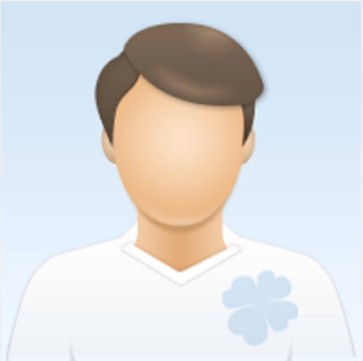
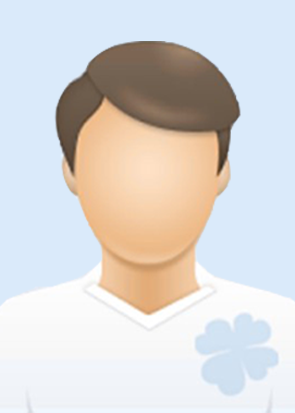
证件照片尺寸

Changed region(s): [[0.1831, 0.0609, 0.8237, 0.7618], [0.6102, 0.7313, 0.9458, 0.9751]]

diff --git a/src/components/stencil/zhcx.vue b/src/components/stencil/zhcx.vue
@@ -10,7 +10,7 @@
                 <el-input v-model="sums.name"  placeholder="请输入姓名" style="width: 90%;" class="zhcx_input"></el-input>
               </el-col>
               <el-col :span="7" :offset="1">
-                <div style="margin-top: 5%;color:rgba(87,154,255,1);">模糊查询&nbsp;&nbsp;<el-checkbox v-model="nameMHCX" ref="nameMHCX" class="zhcx_checkbox"></el-checkbox>
+                <div style="margin-top: 5%;color:white;">模糊查询&nbsp;&nbsp;<el-checkbox v-model="nameMHCX" ref="nameMHCX" class="zhcx_checkbox"></el-checkbox>
                 </div>
               </el-col>
             </el-row>
@@ -20,7 +20,7 @@
                 <el-input v-model="sums.idcard" placeholder="请输入身份证号" style="width: 90%;color:white;" class="zhcx_input" ></el-input>
               </el-col>
               <el-col :span="7" :offset="1">
-                <div style="margin-top: 5%;color:rgba(87,154,255,1);">模糊查询&nbsp;&nbsp;<el-checkbox v-model="idcardMHCX" id="idcardMHCX" class="zhcx_checkbox"></el-checkbox>
+                <div style="margin-top: 5%;color:white;">模糊查询&nbsp;&nbsp;<el-checkbox v-model="idcardMHCX" id="idcardMHCX" class="zhcx_checkbox"></el-checkbox>
                 </div>
               </el-col>
             </el-row>

diff --git a/src/components/stencil/rxrk.vue b/src/components/stencil/rxrk.vue
@@ -145,7 +145,7 @@
         </el-row>
         <el-row >
           <el-col :span="8">
-            <img :src="effectivImageUrl" class="image avatar effective_image" style="width: 60px; height: 60px;">
+            <img :src="effectivImageUrl" class="image avatar effective_image" style="width: 43px; height: 60px;">
           </el-col>
           <el-col :span="8">
             <el-button  type="primary" @click="submitForm('baseInfoForm')" style="width: 80px;margin-top:10px;">提交</el-button>
@@ -330,9 +330,9 @@
     /*z-index: 99;*/
   }
   .image_rxrk{
-    margin-left: 10%!important;
+    margin-left: 38%!important;
     margin-top: 40%!important;
-    width: 250px!important;
+    width: 178px!important;
     height: 250px!important;
     display: block!important;
     border-top-left-radius: 0.5em;

diff --git a/src/components/login.vue b/src/components/login.vue
@@ -84,7 +84,7 @@ export default {
         if (valid) {
           this.$axios({
             method: 'post',
-            url: '/zc/login',
+            url: '/login',
             data: {
               "username": this.ruleForm2.account,
               "password": this.ruleForm2.pass
@@ -142,7 +142,7 @@ export default {
 <style scoped>
 #login{
   height: 1080px;
-  background-image: url('/static/img/login.png');
+  background-image: url('/static/img/login2.png');
   background-repeat: no-repeat;
   background-size: 100% 100%;
   color: azure;
